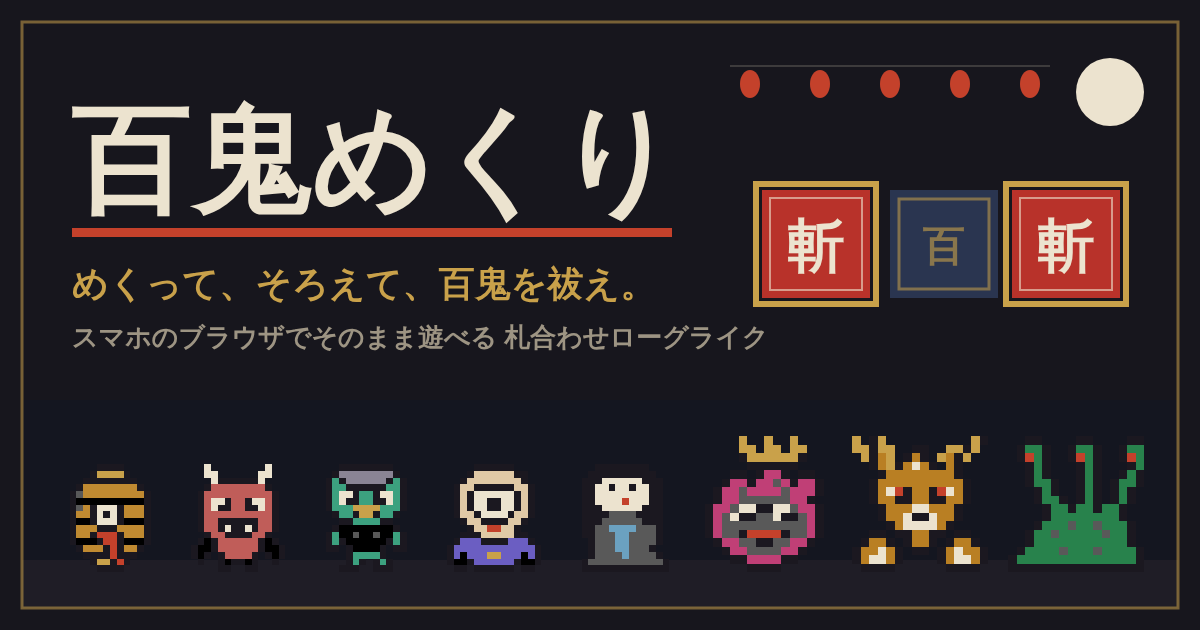
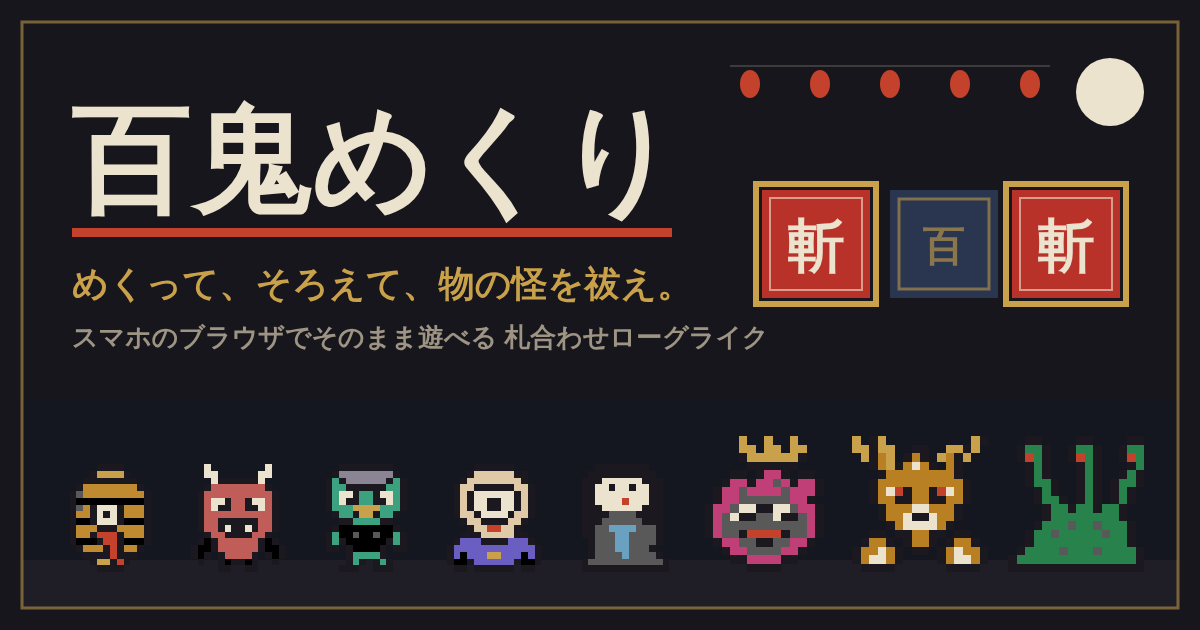
敵の呼び方を「物の怪」に（味方は百鬼のまま）
Claude-Session: https://claude.ai/code/session_015f9eBvfShfKeZerENnQEhg

Changed region(s): [[0.3392, 0.4222, 0.555, 0.4825]]

diff --git a/index.html b/index.html
@@ -9,10 +9,10 @@
 <meta name="apple-mobile-web-app-title" content="百鬼めくり">
 <title>百鬼めくり</title>
 <!-- リンクを貼ったときのカード（X・Discord・LINE など）。画像は pv/ogp_make.js で作る -->
-<meta name="description" content="めくって、そろえて、百鬼を祓え。スマホのブラウザでそのまま遊べる札合わせローグライク。">
+<meta name="description" content="めくって、そろえて、物の怪を祓え。スマホのブラウザでそのまま遊べる札合わせローグライク。">
 <meta property="og:type" content="website">
 <meta property="og:title" content="百鬼めくり">
-<meta property="og:description" content="めくって、そろえて、百鬼を祓え。スマホのブラウザでそのまま遊べる札合わせローグライク。">
+<meta property="og:description" content="めくって、そろえて、物の怪を祓え。スマホのブラウザでそのまま遊べる札合わせローグライク。">
 <meta property="og:url" content="https://kome0824.github.io/hyakki-mekuri/">
 <meta property="og:image" content="https://kome0824.github.io/hyakki-mekuri/ogp.png">
 <meta property="og:image:width" content="1200">
@@ -508,7 +508,7 @@ body.kbd .kfocus{outline:calc(var(--u)*.7) solid var(--kin);outline-offset:calc(
     </div>
     <div class="volpanel" id="volPanel"><div class="vol"><label><span>BGM</span><input type="range" min="0" max="100" step="5" class="volBgm"><b class="volBgmN"></b></label><label><span>効果音</span><input type="range" min="0" max="100" step="5" class="volSe"><b class="volSeN"></b></label></div></div>
     <div class="logo">百鬼めくり</div>
-    <div class="logo-sub">めくって、そろえて、百鬼を祓え。</div>
+    <div class="logo-sub">めくって、そろえて、物の怪を祓え。</div>
     <button class="btn" id="btnNew">はじめる</button>
     <button class="btn sub endbtn" id="btnEndless">果てなき夜<small>エンドレス</small></button>
     <button class="btn sub" id="btnCont" style="display:none">つづきから</button>
@@ -517,7 +517,7 @@ body.kbd .kfocus{outline:calc(var(--u)*.7) solid var(--kin);outline-offset:calc(
       <div class="ascdesc" id="ascDesc"></div>
     </div>
     <div class="kbdnote">キーボード：↑↓で選ぶ　Enterで決定　Escでもどる</div>
-    <div class="title-note">札をどんどんめくれ<br>同じ絵柄が2枚開いたら即発動<br>妖怪は待ってくれない</div>
+    <div class="title-note">札をどんどんめくれ<br>同じ絵柄が2枚開いたら即発動<br>物の怪は待ってくれない</div>
     <!-- 説明は画面の下段に（「はじめる」「つづきから」の近くに置かない） -->
     <div class="tsp"></div>
     <div class="title-links"><button class="btn sub" id="btnHow">遊び方</button><button class="btn sub" id="btnCards">図鑑</button><button class="btn sub" id="btnRec">記録</button></div>
@@ -698,7 +698,7 @@ const ACTS = [
   { easy:['gasha','kage'], normal:['gasha','raiju','hannya','kage'], elite:['nue','mukade'], boss:'orochi' },
 ];
 
-/* ---------- 闇（難度）：夜が深いほど妖怪が強い ---------- */
+/* ---------- 闇（難度）：夜が深いほど物の怪（敵）が強い ---------- */
 const ASC = [
   '',
   '強敵のHP +20%',
@@ -2855,7 +2855,7 @@ function actClear(){
   const h = Math.round(run.maxHp * 0.5);
   heal(h);
   save();
-  const next = run.endless && run.act > ACTS.length && (run.act - 1) % ACTS.length === 0 ? '<br>夜はまだ明けない。妖怪たちが強くなった' : '';
+  const next = run.endless && run.act > ACTS.length && (run.act - 1) % ACTS.length === 0 ? '<br>夜はまだ明けない。物の怪たちが強くなった' : '';
   chooser({ title:`第${run.act - 1}幕を越えた`, sub:`ひと息ついた。HP ${h} 回復<br>次は第${run.act}幕${next}`, items:[], btn:{ label:'すすむ', on:enterMap } });
 }
 function gameOver(){ endRun(false); }
@@ -3230,7 +3230,7 @@ async function drawCard(c){
   g.textAlign = 'left'; g.textBaseline = 'alphabetic';
   g.fillStyle = '#ece3cf'; g.font = `900 82px ${CARD_MIN}`; g.fillText('百鬼めくり', 64, 140);
   g.fillStyle = '#c4412b'; g.fillRect(64, 162, 410, 7);
-  g.fillStyle = '#c9a14a'; g.font = `700 25px ${CARD_MIN}`; g.fillText('めくって、そろえて、百鬼を祓え。', 64, 212);
+  g.fillStyle = '#c9a14a'; g.font = `700 25px ${CARD_MIN}`; g.fillText('めくって、そろえて、物の怪を祓え。', 64, 212);
   const foe = c.foe && PX[c.foe] ? c.foe : 'onibi';
   g.fillStyle = '#141620'; g.fillRect(64, 248, 410, 330);
   g.strokeStyle = '#3a3644'; g.lineWidth = 2; g.strokeRect(64, 248, 410, 330);
@@ -3305,9 +3305,10 @@ function showHowto(){
     items: HOWTO.map(([g, col, n, d]) => ({ html:`<div class="mini info" style="--k:${col}"><span class="mk">${g}</span></div><div><div class="nm">${n}</div><div class="ds">${d}</div></div>` })),
     btn:{ label:'もどる', on:enterTitle } });
 }
-/* ---------- 図鑑（札・お守り・妖怪） ----------
-   札は全部、お守りは手に入れたもの、妖怪は出会ったものだけ中身が見える */
-const DEX_TABS = [['card', '札'], ['relic', 'お守り'], ['foe', '妖怪']];
+/* ---------- 図鑑（札・お守り・物の怪） ----------
+   札は全部、お守りは手に入れたもの、物の怪（敵）は出会ったものだけ中身が見える。
+   呼び方：味方は「百鬼」（百鬼の行列・百鬼夜行）、敵は「物の怪」 */
+const DEX_TABS = [['card', '札'], ['relic', 'お守り'], ['foe', '物の怪']];
 function dexCards(){
   const unlocked = new Set(['zan', 'mamo', ...POOL]);
   const keys = Object.keys(SK).filter(k => k !== 'noroi').sort((a, b) => SK[a].r - SK[b].r).concat('noroi');
@@ -3340,7 +3341,7 @@ function dexFoes(dx){
     list.push([A.boss, a, '幕の主']);
   });
   const n = list.filter(([id]) => met[id]).length;
-  return { note:`出会った妖怪 ${n}/${list.length}`, items: list.map(([id, a, kind]) => {
+  return { note:`出会った物の怪 ${n}/${list.length}`, items: list.map(([id, a, kind]) => {
     const f = FOES[id], v = met[id], where = `第${a + 1}幕${kind ? 'の' + kind : ''}`;
     if (!v) return { html:`<div class="mini dexq">？</div><div><div class="nm">？？？　<small>${where}</small></div><div class="ds">まだ出会っていない</div></div>` };
     const acts = f.it.map(intentDex).join(' → ');

diff --git a/README.md b/README.md
@@ -1,6 +1,6 @@
 # 百鬼めくり
 
-めくって、そろえて、百鬼を祓え。
+めくって、そろえて、物の怪を祓え。
 
 スマホ縦画面の札合わせローグライク。ブラウザでそのまま遊べます。スマホではホーム画面に追加すると、ブラウザのバーなしで遊べます。
 
@@ -15,7 +15,7 @@
 - マップを進み、各幕の一番上の「幕の主」を祓うと次の幕へ。三幕を越えると夜明け。
 - 力尽きても経験がたまり、新しい札やお守りが解放される。
 - 「果てなき夜」はエンドレス。第3幕のあとも幕が続き、一周ごとに敵が強くなる。
-- 「図鑑」で札の効果、集めたお守り、出会った妖怪（HP・行動の順番）を見られる。まだのものは ？？？。
+- 「図鑑」で札の効果、集めたお守り、出会った物の怪（敵。HP・行動の順番）を見られる。まだのものは ？？？。
 - 「記録」で成績を見られる。「結果を共有」で、めくり熱や称号の入った結果の画像を付けてシェアできる（スマホは共有メニューから X・LINE・Discord などへ。PCでは画像を保存して文章をコピー）。
 - 記録の画面の「データを全部消す」で、確認のあと、記録・解放・図鑑・設定を全部消して最初からやり直せる。
 
